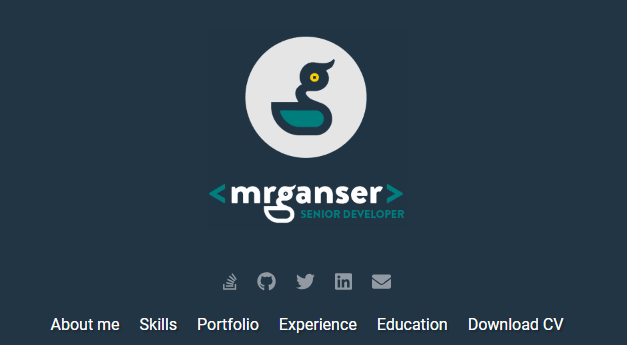
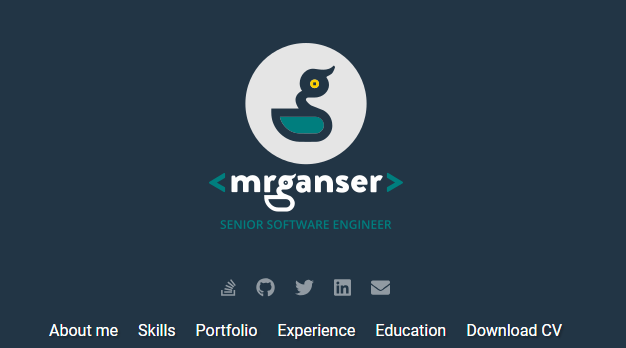
update portfolio pictures and add some personal corrections

diff --git a/index.html b/index.html
@@ -36,9 +36,9 @@
     <div id="container">
       <section id="header">
         <header>
-          <a href="/"
-            ><img alt="mrganser - Senior developer" src="img/logo.png"
-          /></a>
+          <a href="/">
+            <img alt="mrganser - Senior software engineer" src="img/logo.png" />
+          </a>
         </header>
         <nav>
           <div id="nav-burger" tabindex="0">
@@ -98,7 +98,7 @@
               </a>
             </li>
             <li>
-              <a title="LinkedIn" target="_blank" disabled>
+              <a title="LinkedIn (soon)" target="_blank" disabled>
                 <span class="fab fa-linkedin"></span>
               </a>
             </li>
@@ -252,7 +252,10 @@
                     target="_blank"
                     href="https://github.com/mrganser/chatterbox"
                   >
-                    <span><span class="fab fa-github"></span> Source code</span>
+                    <span>
+                      <span class="fab fa-github"></span>
+                      Source code
+                    </span>
                   </a>
                 </figcaption>
               </figure>
@@ -278,7 +281,10 @@
                 <img src="img/portfolio/2.png" />
                 <figcaption>
                   <a target="_blank" href="https://github.com/mrganser">
-                    <span><span class="fab fa-github"></span> Source code</span>
+                    <span>
+                      <span class="fab fa-github"></span>
+                      Source code (soon)
+                    </span>
                   </a>
                 </figcaption>
               </figure>
@@ -304,7 +310,10 @@
                 <img src="img/portfolio/3.png" />
                 <figcaption>
                   <a target="_blank" href="https://github.com/mrganser">
-                    <span><span class="fab fa-github"></span> Source code</span>
+                    <span>
+                      <span class="fab fa-github"></span>
+                      Source code (soon)
+                    </span>
                   </a>
                 </figcaption>
               </figure>
@@ -334,7 +343,10 @@
                     target="_blank"
                     href="https://github.com/mrganser/cv-template"
                   >
-                    <span><span class="fab fa-github"></span> Source code</span>
+                    <span>
+                      <span class="fab fa-github"></span>
+                      Source code
+                    </span>
                   </a>
                 </figcaption>
               </figure>
